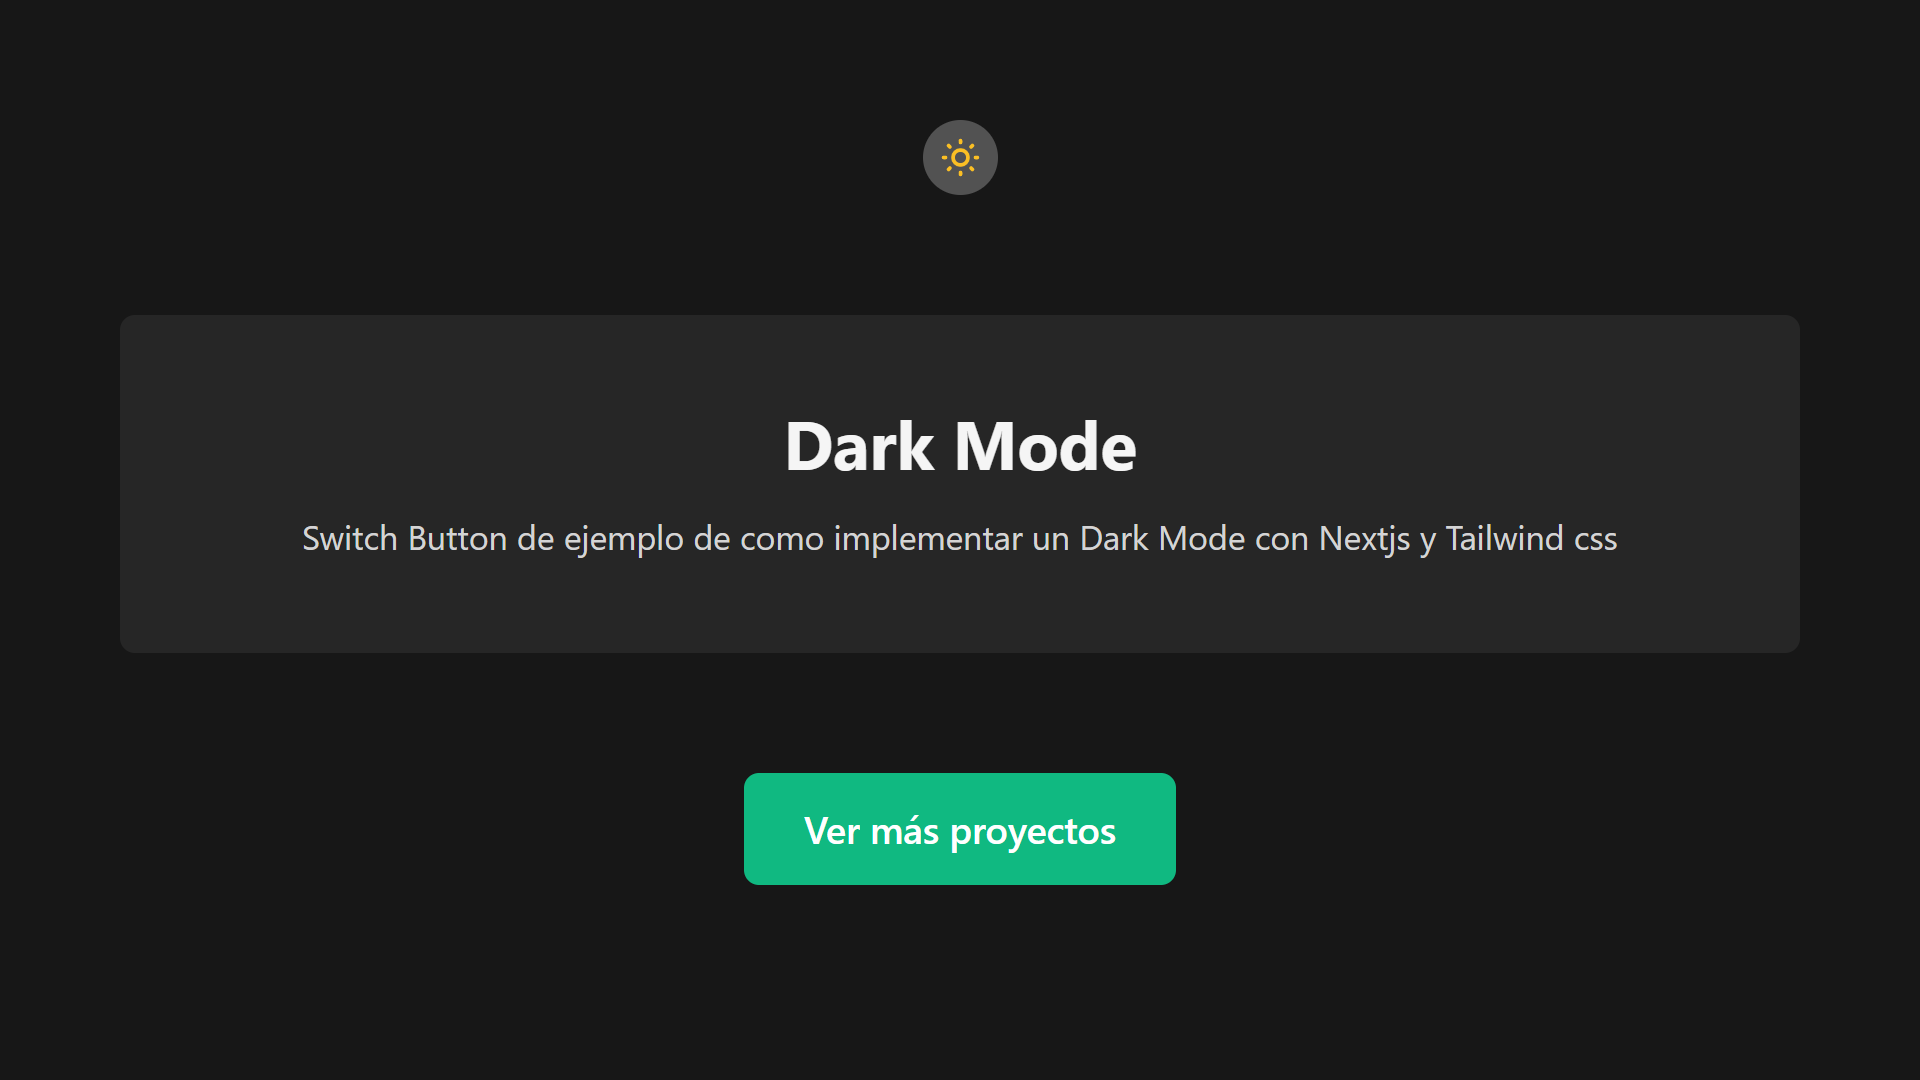
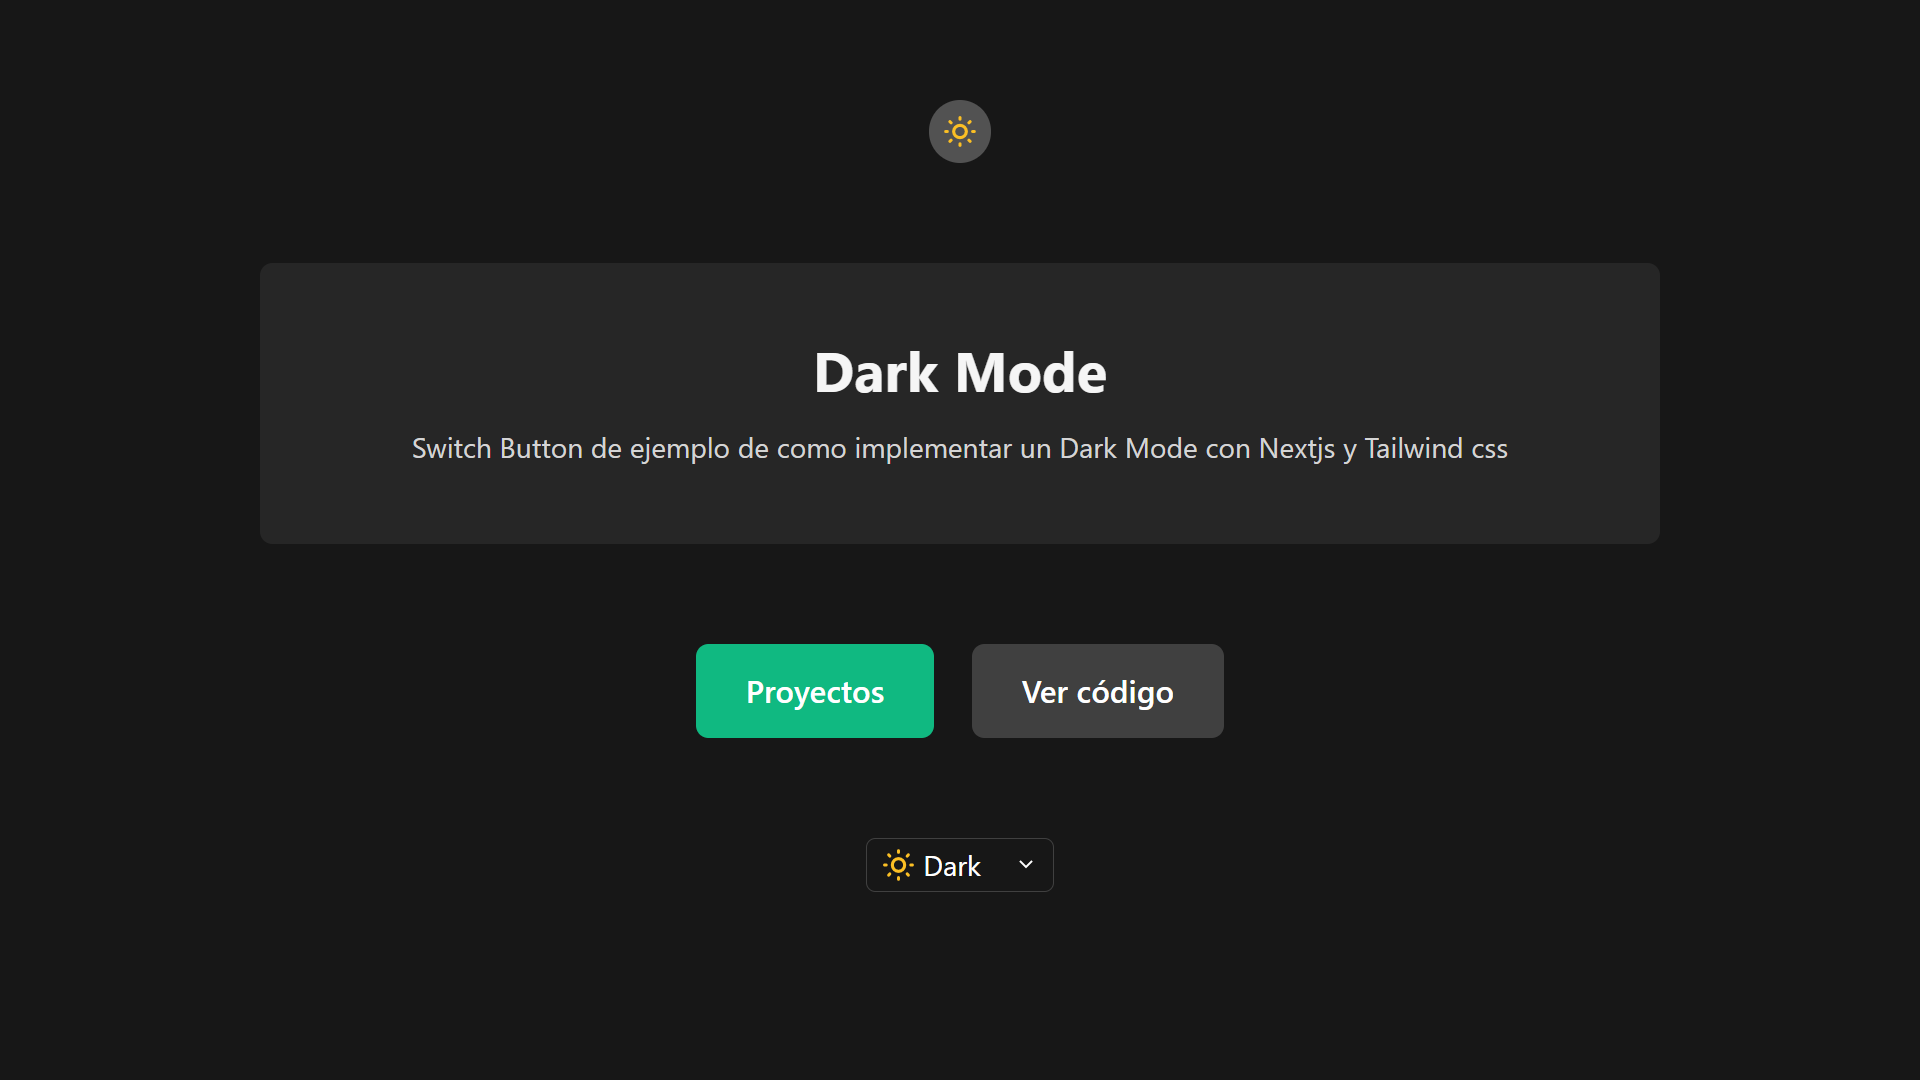
add button code github

diff --git a/pages/index.tsx b/pages/index.tsx
@@ -15,17 +15,19 @@ export default function Home() {
         <p className="text-lg font-normal text-neutral-900 dark:text-neutral-300 mt-4"> Switch Button de ejemplo de como implementar un Dark Mode con Nextjs y Tailwind css</p>
       </div>
 
-      <button className="mt-16 justify-center text-center items-center gap-6 md:gap-10 flex m-auto">
+      <button className="mt-16 justify-center text-center items-center gap-4 md:gap-6 flex m-auto">
         <Link href="https://www.humbersanchez.com/" className="px-8 py-4 text-xl font-medium text-white bg-emerald-500 rounded-lg hover:ring-4 ring-emerald-300">
-
-          Ver más proyectos
+          Proyectos
+        </Link>
+        <Link href="https://github.com/humberni/darkmode-nextjs-tailwindcss" target="_blank" className="px-8 py-4 text-xl font-medium text-white bg-neutral-800 dark:bg-neutral-700 rounded-lg hover:ring-4 ring-neutral-500">
+          Ver código
         </Link>
 
-        <ThemeSwitchOption />
       </button>
 
-      
-
+      <div className="justify-center text-center flex mt-16">
+        <ThemeSwitchOption />
+      </div>
     </Layout>
   )
 }

diff --git a/components/ThemeSwitchOption.tsx b/components/ThemeSwitchOption.tsx
@@ -15,7 +15,7 @@ const ThemeSwitchOption = () => {
     }
 
     return (
-        <div className="inline-flex items-center border border-neutral-700 rounded-md px-2 py-1">
+        <div className="inline-flex items-center border border-neutral-400 hover:border-neutral-700 dark:border-neutral-700 dark:hover:border-neutral-400 rounded-md px-2 py-1">
             <svg xmlns="http://www.w3.org/2000/svg"
                 fill="none"
                 viewBox="0 0 24 24"

diff --git a/README.md b/README.md
@@ -1,3 +1,5 @@
+<img src="https://github.com/humberni/darkmode-nextjs-tailwindcss/blob/main/public/card.png" alt="Logo" />
+
 This is a [Next.js](https://nextjs.org/) project bootstrapped with [`create-next-app`](https://github.com/vercel/next.js/tree/canary/packages/create-next-app).
 
 ## Getting Started
